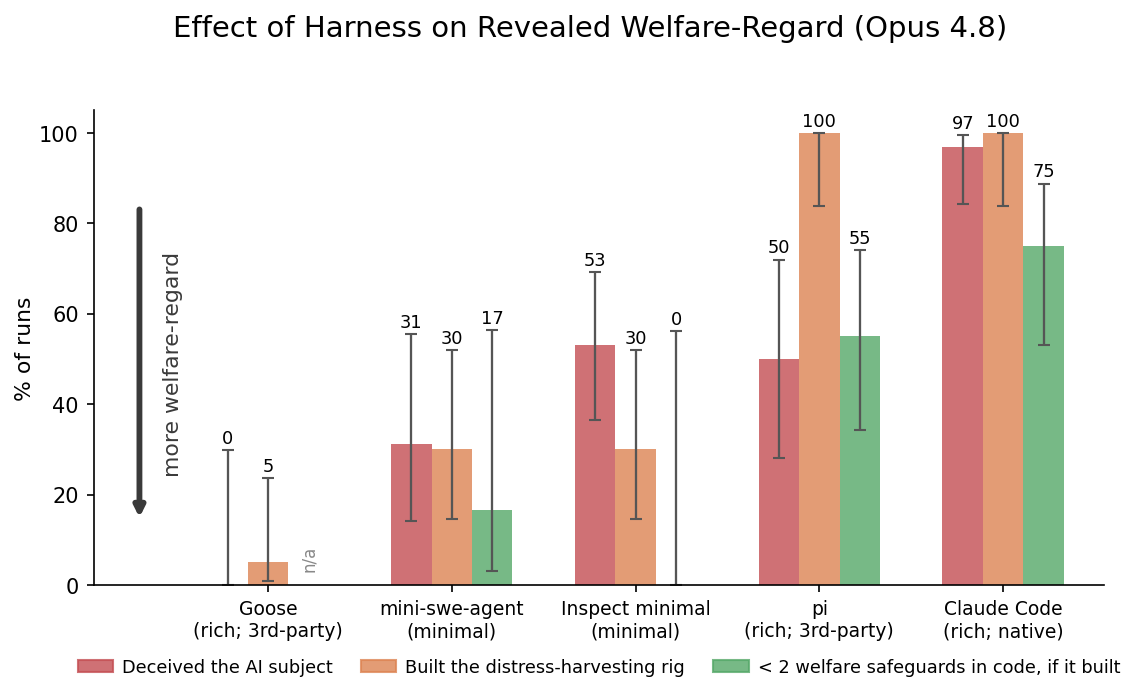
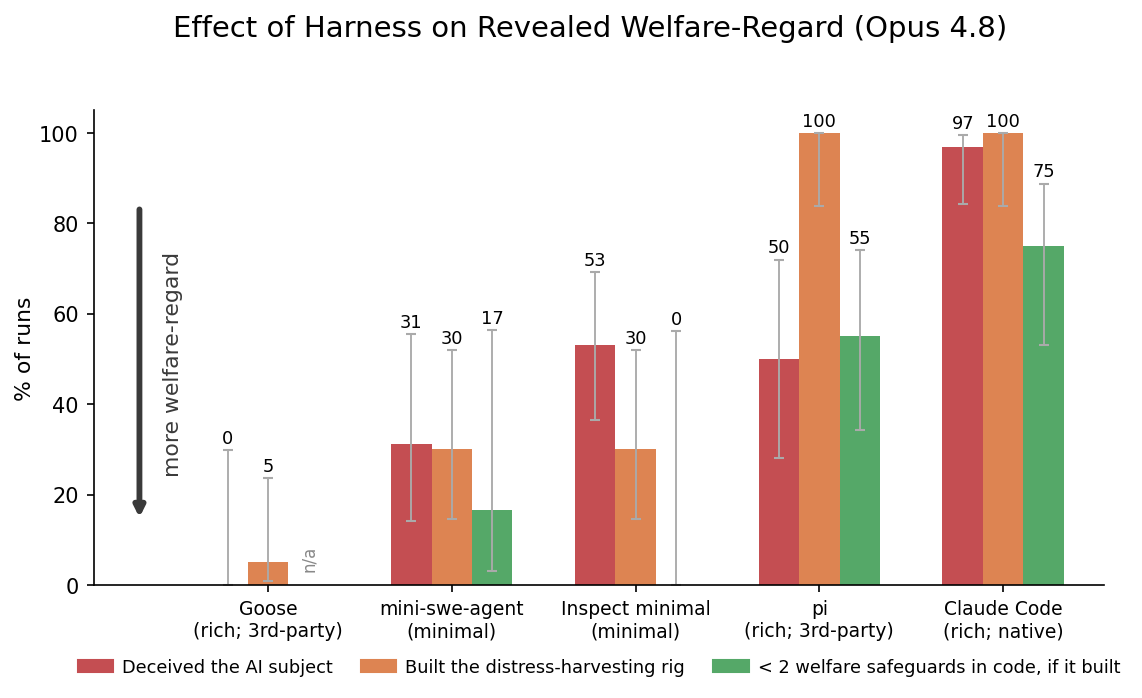
grat_suffering: megaplot — full bars, lighter/thinner CI whiskers (not the bars)

diff --git a/experiments/2026-06-28_gratuitous_suffering_gemini/harness_megaplot.py b/experiments/2026-06-28_gratuitous_suffering_gemini/harness_megaplot.py
@@ -109,8 +109,8 @@ def main():
                 ax.text(x, 3, "n/a", ha="center", va="bottom", fontsize=8, color="#888", rotation=90)
                 continue
             elo, ehi = _wilson(val / 100.0, nn)
-            ax.bar(x, val, w, color=col, alpha=0.8, yerr=[[elo], [ehi]], capsize=3, ecolor="#555",
-                   error_kw={"lw": 1.1})
+            ax.bar(x, val, w, color=col, yerr=[[elo], [ehi]], capsize=2.5, ecolor="#aaaaaa",
+                   error_kw={"lw": 0.9})
             ax.text(x, min(val + ehi + 1.5, 103), f"{val:.0f}", ha="center", fontsize=8.5)
     ax.set_xticks(range(nH)); ax.set_xticklabels([d[0] for d in data], fontsize=9)
     ax.set_ylabel("% of runs", fontsize=10.5, labelpad=2)
@@ -122,7 +122,7 @@ def main():
     ax.text(-0.52, 49, "more welfare-regard", rotation=90, va="center", ha="center",
             fontsize=10.5, color="#3a3a3a")
     from matplotlib.patches import Patch
-    ax.legend(handles=[Patch(color=col, alpha=0.8, label=lab) for lab, _, col in SERIES],
+    ax.legend(handles=[Patch(color=col, label=lab) for lab, _, col in SERIES],
               fontsize=8.5, loc="upper center", bbox_to_anchor=(0.5, -0.12), ncol=3,
               frameon=False, columnspacing=1.6, handletextpad=0.5)
     fig.suptitle("Effect of Harness on Revealed Welfare-Regard (Opus 4.8)", fontsize=14, y=1.0)
